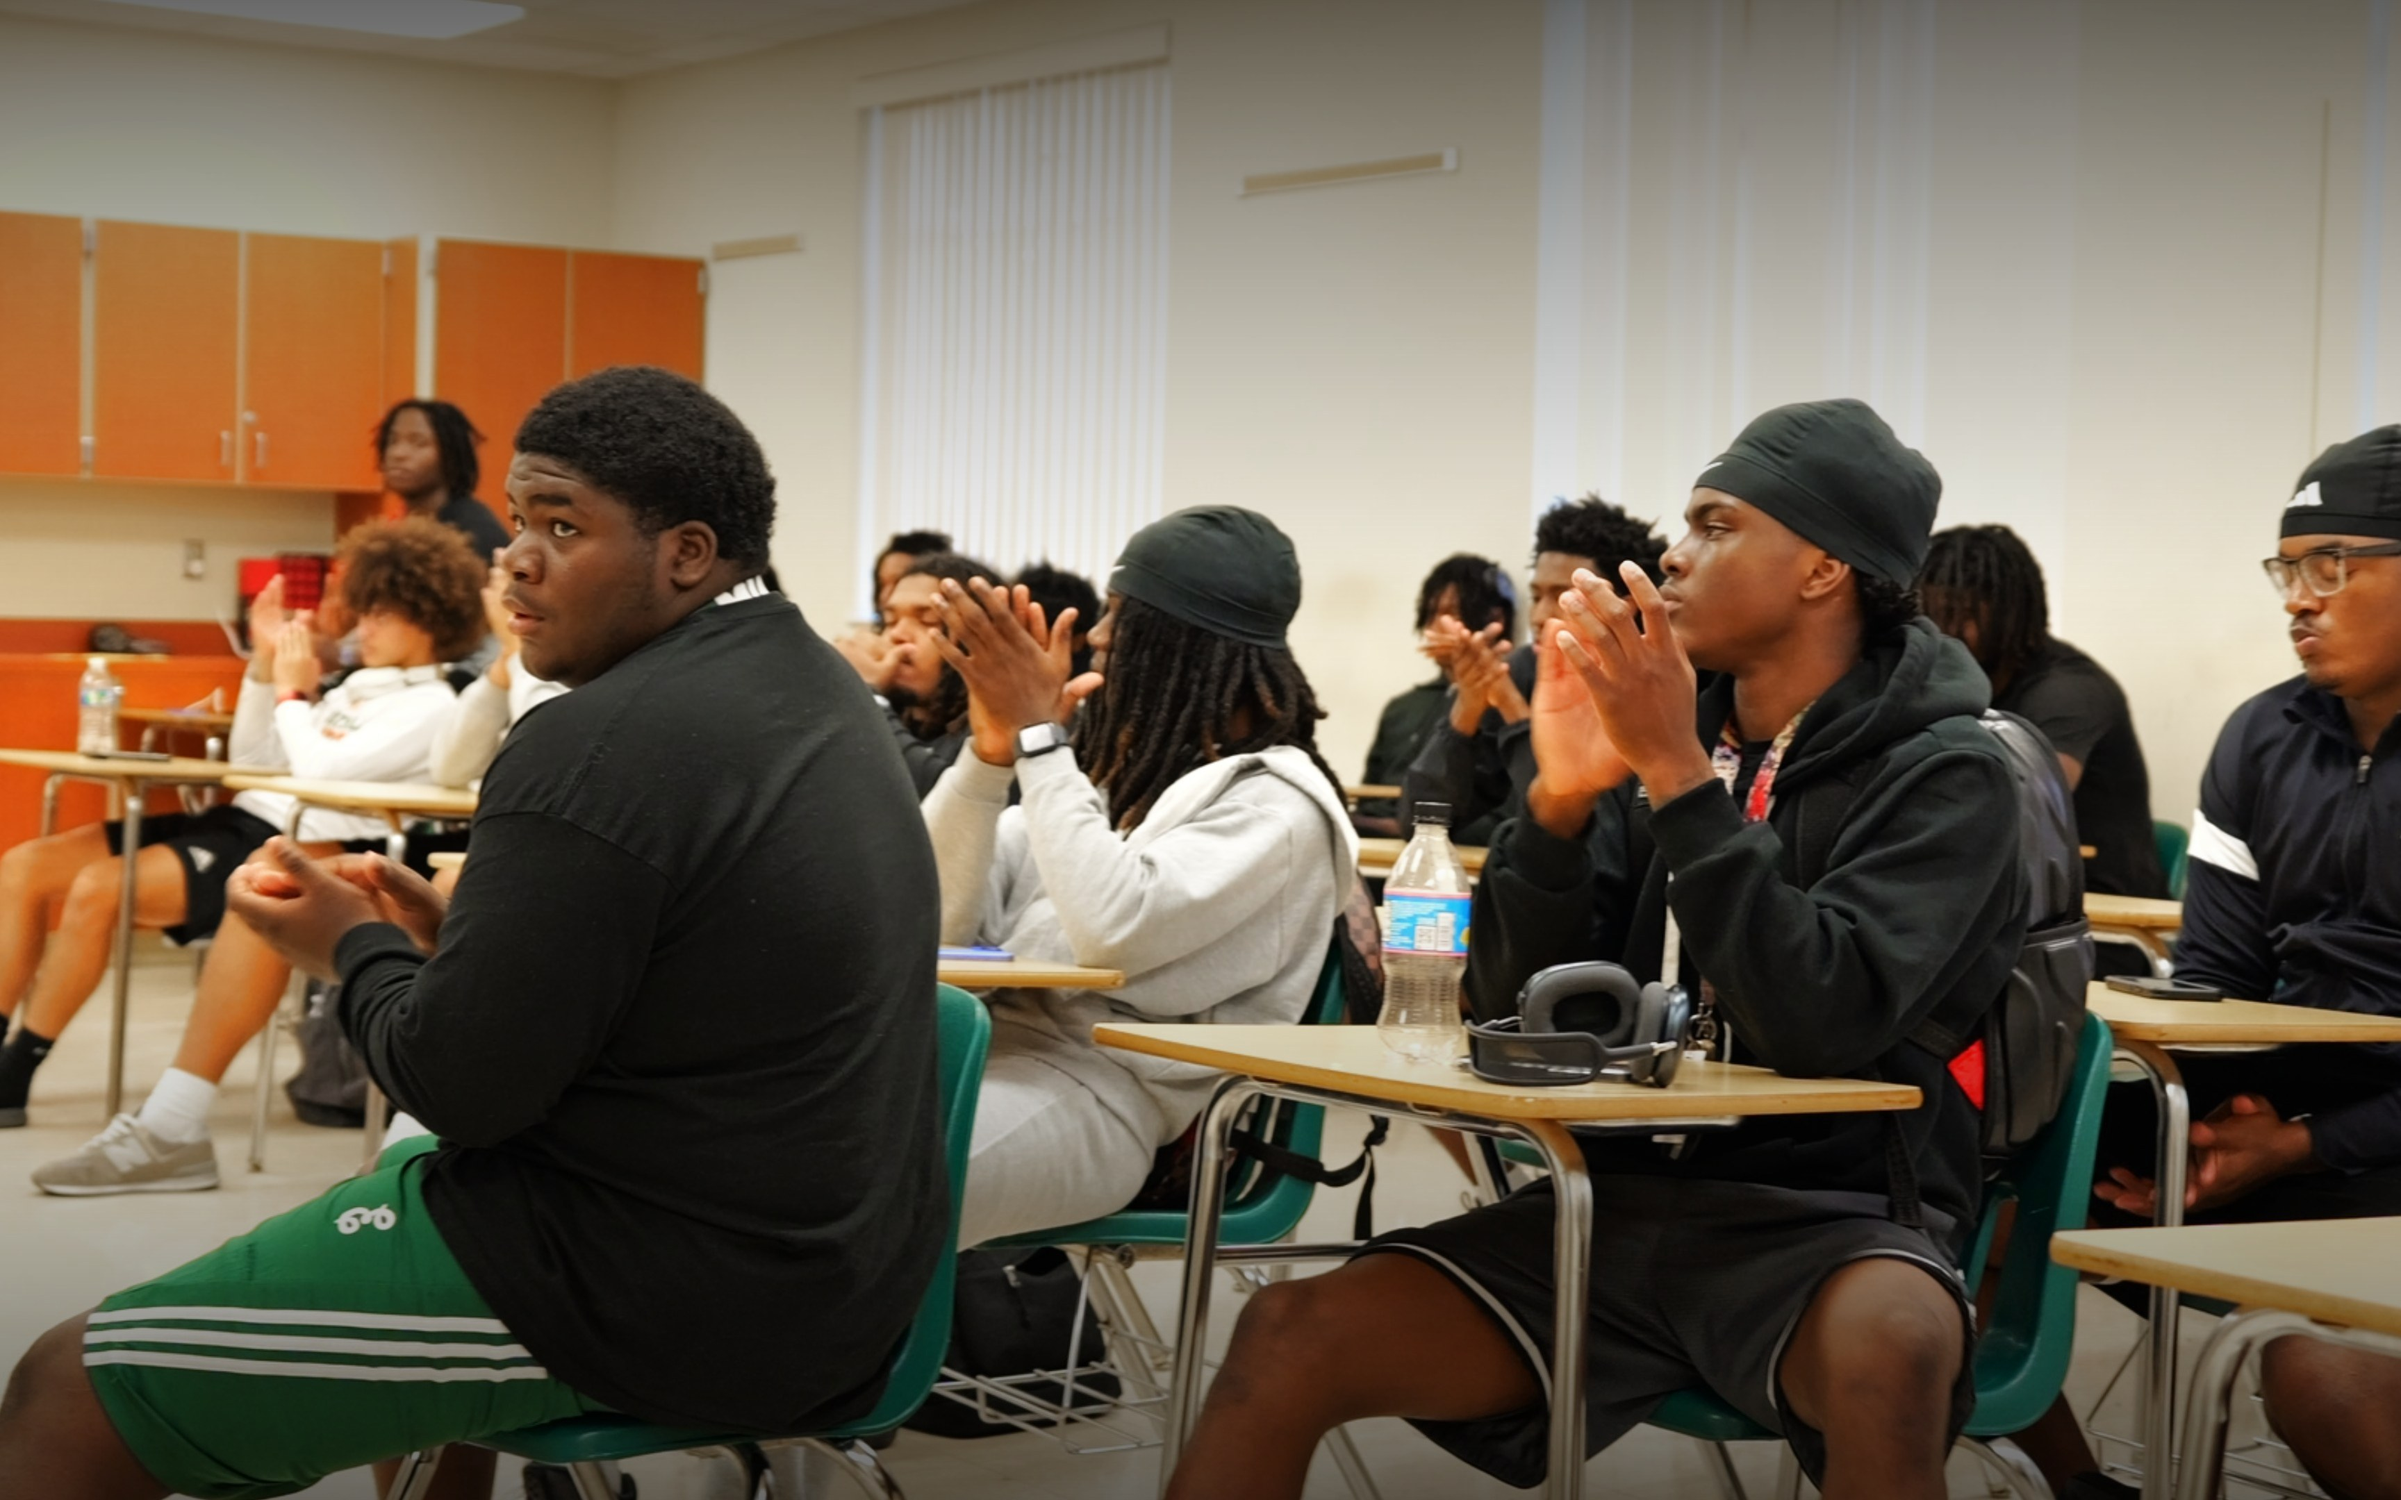
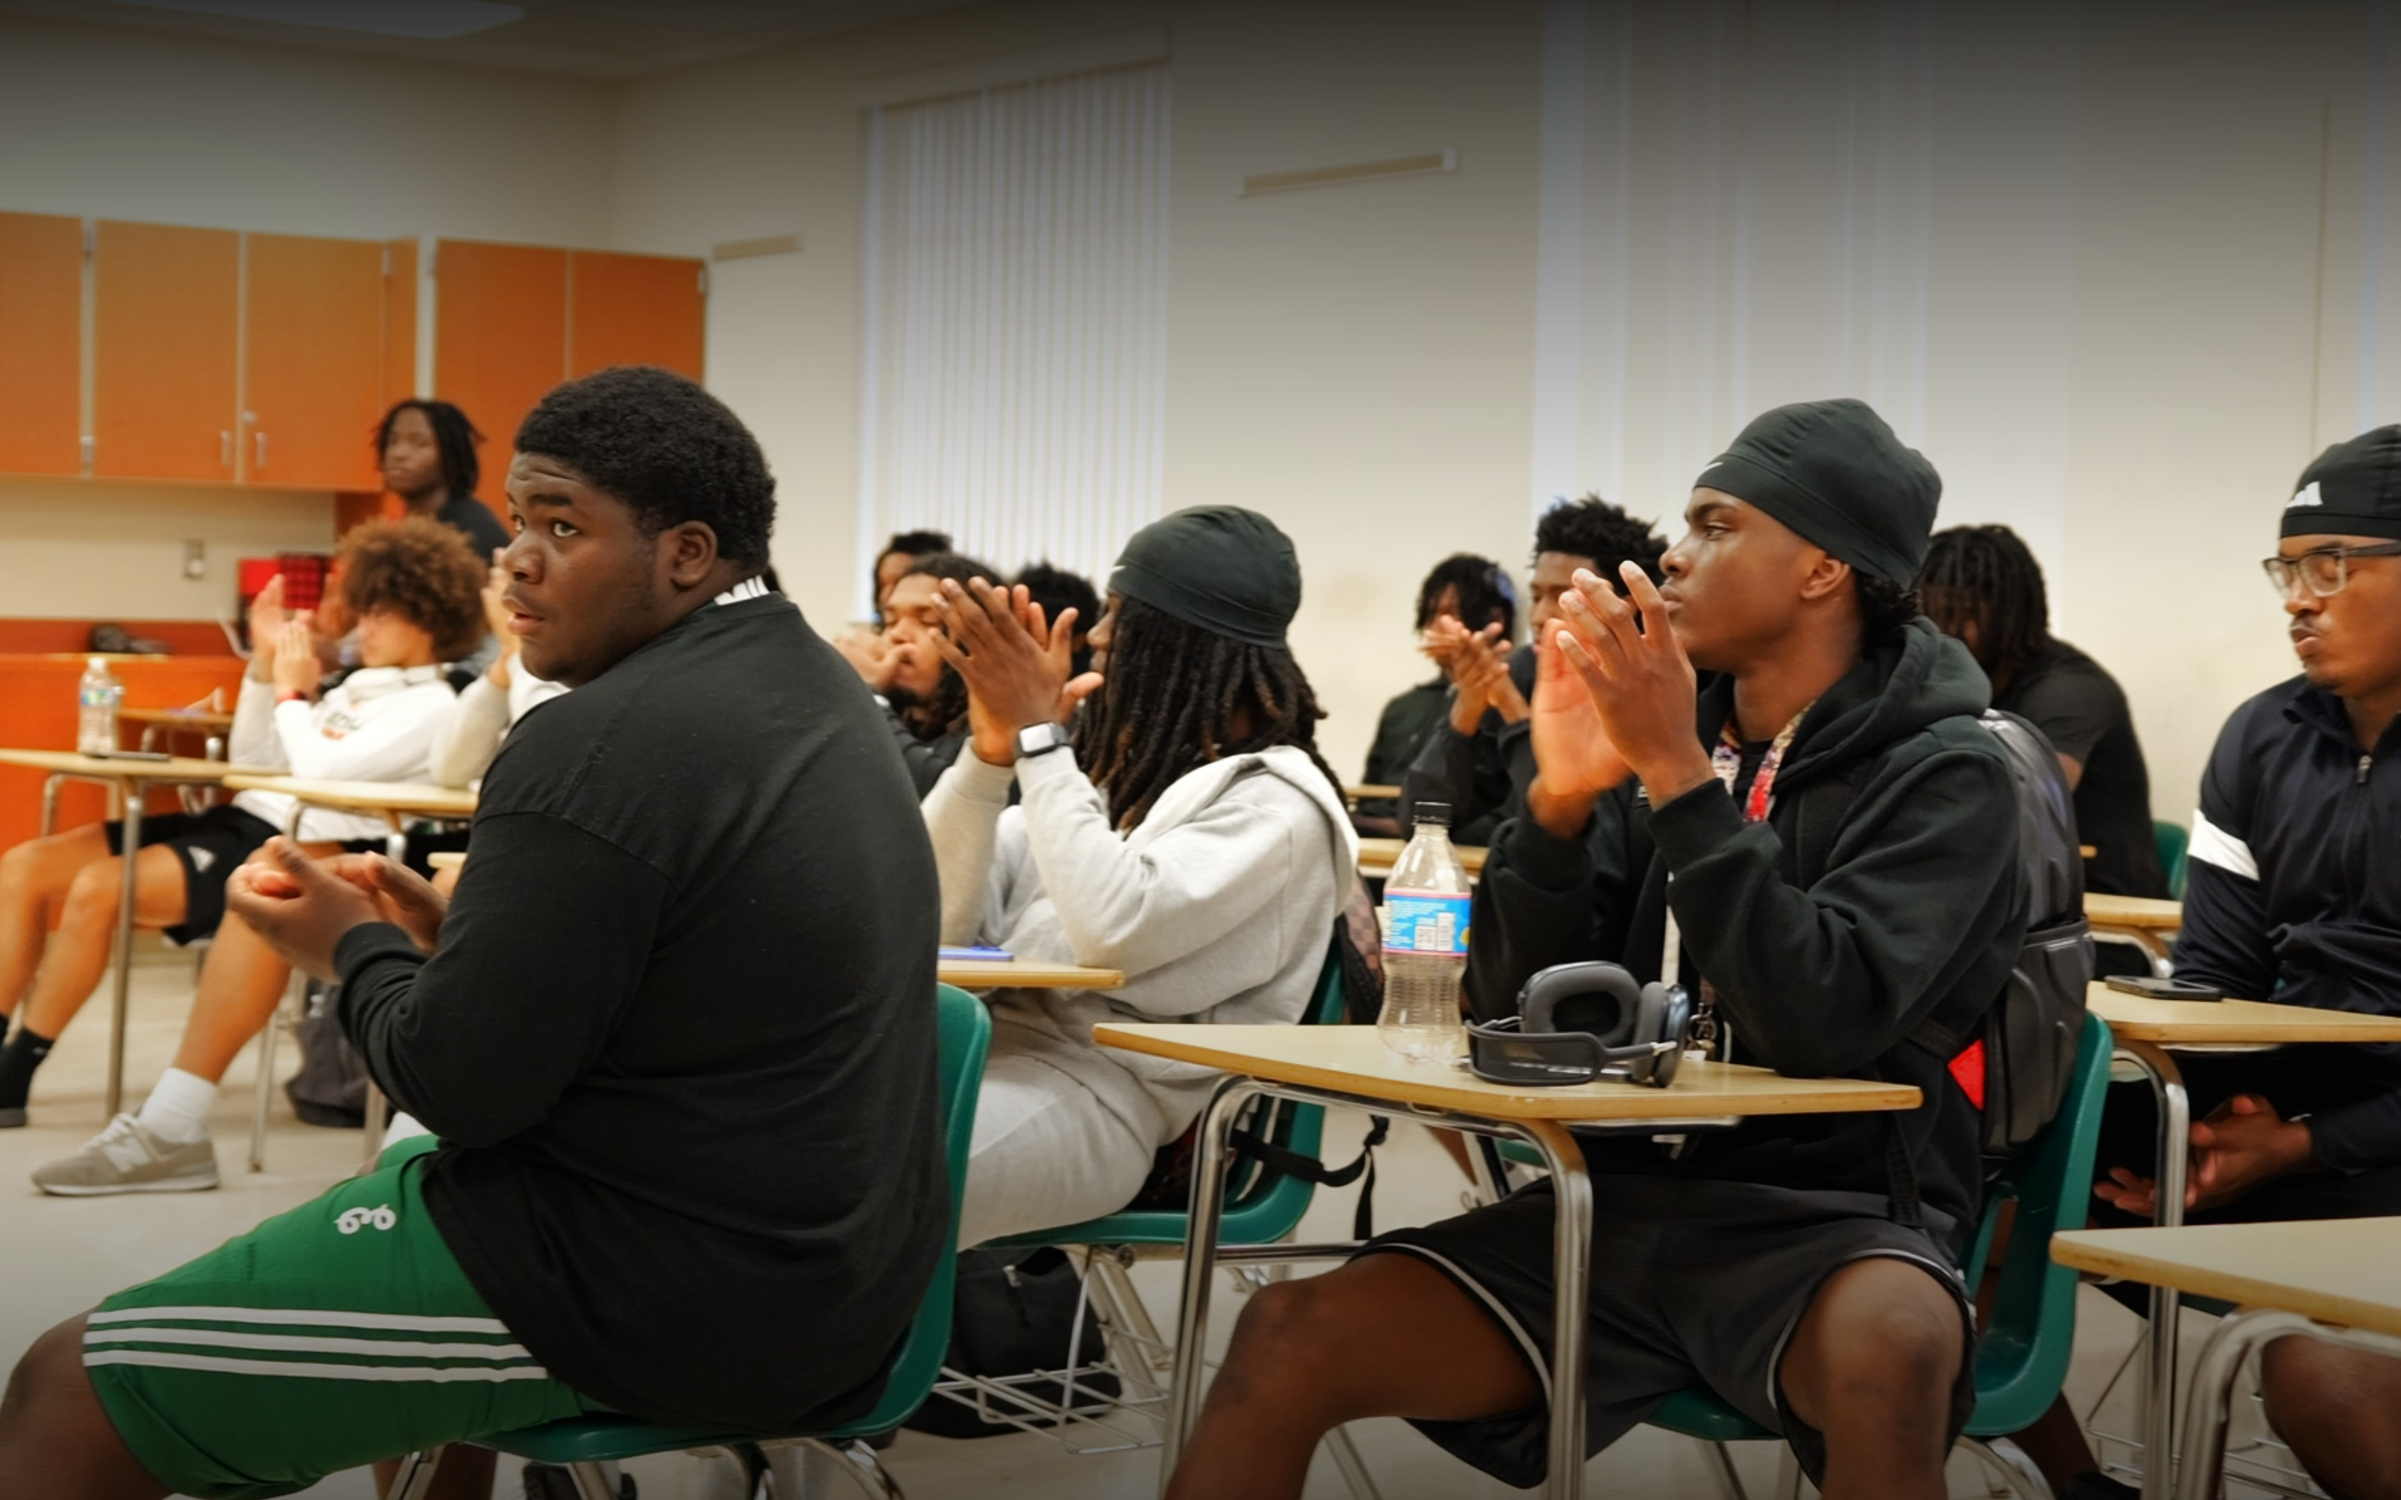
Rebalance program photo gradients (lighter Results, stronger Model/Students top)
Results gradient reduced (it was too dark). Model gradient strengthened top and bottom (photo was too bright). Students top gradient strengthened; bottom left as-is.

Claude-Session: https://claude.ai/code/session_015eNAuB2LDyr9GM2ABpJr4N

Changed region(s): [[0.0, 0.0, 1.0, 0.2171]]

diff --git a/index.html b/index.html
@@ -79,17 +79,17 @@
     <div class="program-col">
       <h3>The Model</h3>
       <p>Our education program connects student athletes in their last years of high school with young-adult mentors who help them navigate college, careers, and life beyond sports.</p>
-      <img src="program-the-model.jpg?v=20261116a" alt="A Bigger Than Sports mentor in a one-on-one conversation with a student athlete">
+      <img src="program-the-model.jpg?v=20261116b" alt="A Bigger Than Sports mentor in a one-on-one conversation with a student athlete">
     </div>
     <div class="program-col">
       <h3>The Students</h3>
       <p>We serve student athletes in under-resourced Title 1 schools, many of whom have built their identity around their sport and have limited access to counselors, career guidance, or a family roadmap for what happens after graduation.</p>
-      <img src="program-the-students.jpg?v=20261116a" alt="Bigger Than Sports student athletes clapping at their desks during a classroom session">
+      <img src="program-the-students.jpg?v=20261116b" alt="Bigger Than Sports student athletes clapping at their desks during a classroom session">
     </div>
     <div class="program-col">
       <h3>The Results</h3>
       <p>Students leave our program with a concrete plan for college, a trade, or a career, along with the confidence to see themselves as more than an athlete, so that when the game ends, they know they have the tools to pursue a dream that is bigger than sports.</p>
-      <img src="program-the-results.jpg?v=20261116a" alt="A Bigger Than Sports student holding his Certificate of Completion with his mentors and coach">
+      <img src="program-the-results.jpg?v=20261116b" alt="A Bigger Than Sports student holding his Certificate of Completion with his mentors and coach">
     </div>
   </div>
 
